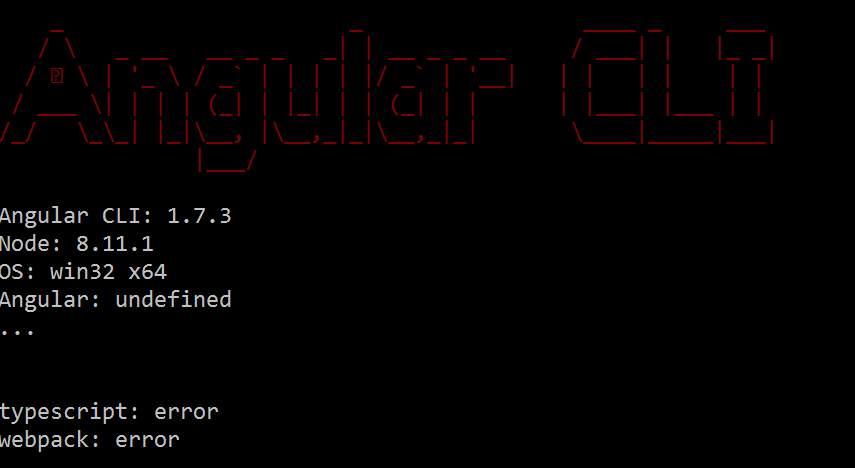
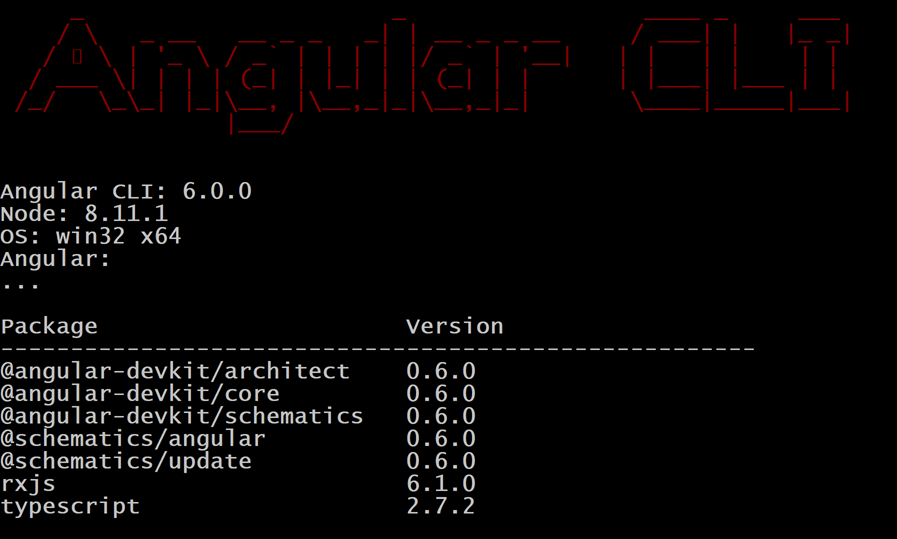
update vscode setup and url for sails api

diff --git a/index.html b/index.html
@@ -31,7 +31,7 @@
 				<div class="chapter">
 					<h2 id="overview">Overview</h2>
 <p>Welcome to the Up and Running with Angular Workshop.  Angular 2 was released in September 2016 and was a full re-write of the framework.  With the re-write a lot has changed.   In this workshop, you will learn how to build an Angular UI from the ground up.</p>
-<div class="alert alert-danger" role="alert">This workshop has been tested against Angular 5.2.9</div>
+<div class="alert alert-danger" role="alert">This workshop has been tested against Angular 6.0.0</div>
 
 <h3 id="goal">Goal</h3>
 <p>The goal of this tutorial is to walk you through creating an application with the common features that a web application would have (headers, footers, forms, calls to API services, authentication, etc).</p>
@@ -107,10 +107,71 @@
 
 <h3 id="visual-studio-code">Visual Studio Code</h3>
 <p>Visual Studio Code is Microsoft lightweight cross platform IDE.</p>
+<h4 class="exercise-start">
+    <b>VSCode Setup</b>
+</h4>
+
 <ol>
 <li>Download Visual Studio Code at <a href="https://code.visualstudio.com/">https://code.visualstudio.com/</a></li>
 <li>Once the download finishes, launch the installer except all of the defaults.</li>
+<li><p>Here are the extensions that I have installed:</p>
+<ul>
+<li><a href="https://marketplace.visualstudio.com/items?itemName=johnpapa.Angular2">Angular v6 Snippets</a></li>
+<li><a href="https://marketplace.visualstudio.com/items?itemName=infinity1207.angular2-switcher">Angular 2 Switcher</a></li>
+<li><a href="https://marketplace.visualstudio.com/items?itemName=Angular.ng-template">Angular Language Service</a></li>
+<li><a href="https://marketplace.visualstudio.com/items?itemName=esbenp.prettier-vscode">Prettier</a></li>
+<li><a href="https://marketplace.visualstudio.com/items?itemName=christian-kohler.path-intellisense">Path Intellisense</a></li>
+<li><a href="https://marketplace.visualstudio.com/items?itemName=CoenraadS.bracket-pair-colorizer">Bracket Pair Colorizer</a></li>
+<li><a href="https://marketplace.visualstudio.com/items?itemName=EditorConfig.EditorConfig">Editor Config</a></li>
+<li><a href="https://marketplace.visualstudio.com/items?itemName=eg2.tslint">TSLint</a></li>
+<li><a href="https://marketplace.visualstudio.com/items?itemName=humao.rest-client">REST Client</a></li>
+<li><a href="https://marketplace.visualstudio.com/items?itemName=Shan.code-settings-sync">Setting Sync</a></li>
+</ul>
+</li>
+<li><p>Here are my Visual Studio Code Settings</p>
+<pre><code class="lang-json"> {
+     &quot;editor.minimap.enabled&quot;: false,
+     &quot;editor.renderWhitespace&quot;: &quot;none&quot;,
+     &quot;editor.renderIndentGuides&quot;: true,
+     &quot;editor.tabCompletion&quot;: true,
+     &quot;editor.wordWrap&quot;: &quot;on&quot;,
+     &quot;editor.tabSize&quot;: 2,
+     &quot;editor.wrappingIndent&quot;: &quot;same&quot;,
+     &quot;explorer.confirmDragAndDrop&quot;: false,
+     &quot;explorer.openEditors.visible&quot;: 0,
+     &quot;files.autoSave&quot;: &quot;off&quot;,
+     &quot;files.exclude&quot;: {
+         &quot;**/.git&quot;: true,
+         &quot;**/.svn&quot;: true,
+         &quot;**/.hg&quot;: true,
+         &quot;**/CVS&quot;: true,
+         &quot;**/.DS_Store&quot;: true,
+         &quot;**/.npm&quot;: true,
+         &quot;**/*.js&quot;: {
+         &quot;when&quot;: &quot;$(basename).ts&quot;
+         },
+         &quot;**/*.js.map&quot;: {
+         &quot;when&quot;: &quot;$(basename)&quot;
+         }
+     },
+     &quot;files.hotExit&quot;: &quot;onExit&quot;,
+     &quot;files.trimTrailingWhitespace&quot;: true,
+     &quot;prettier.printWidth&quot;: 100,
+     &quot;prettier.singleQuote&quot;: true,
+     &quot;prettier.bracketSpacing&quot;: true,
+     &quot;prettier.trailingComma&quot;: &quot;es5&quot;,
+     &quot;search.exclude&quot;: {
+         &quot;**/node_modules&quot;: true,
+         &quot;**/bower_components&quot;: true,
+         &quot;**/jspm_packages&quot;: true
+     }
+ }
+</code></pre>
+</li>
 </ol>
+<div class="exercise-end"></div>
+
+
 <h3 id="node-js">Node.js</h3>
 <p>NodeJS is used to power the Angular CLI as well as install all of our dependencies. The Angular CLI requires Node version 8.</p>
 <ol>
@@ -134,7 +195,7 @@
     <b>Exercise</b>: Install Angular CLI
 </h4>
 
-<div class="alert alert-info" role="alert">This workshop has been tested against Angular CLI 1.7.3</div>
+<div class="alert alert-info" role="alert">This workshop has been tested against Angular CLI 6.0.0</div>
 
 <ol>
 <li><p>Open a command prompt or terminal and run the following command</p>
@@ -762,7 +823,7 @@
 
      const loginInfo = { &#39;email&#39;: email, &#39;password&#39;: password };
 
-     return this.http.put(&#39;https://dj-sails-todo.azurewebsites.net/user/login&#39;, loginInfo, requestOptions)
+     return this.http.put(&#39;https://sails-ws.herokuapp.com/user/login&#39;, loginInfo, requestOptions)
          .pipe(
              tap((res: Response) =&gt; {
                  if (res) {
@@ -986,7 +1047,7 @@
 <li><p>Add the following method to allow an account to be created</p>
 <pre><code class="lang-TypeScript">signup(email: string, password: string): Observable&lt;boolean | Response&gt; {
  const loginInfo = { &#39;email&#39;: email, &#39;password&#39;: password };
- return this.http.post(&quot;https://dj-sails-todo.azurewebsites.net/user/&quot;, loginInfo, requestOptions)
+ return this.http.post(&quot;https://sails-ws.herokuapp.com/user/&quot;, loginInfo, requestOptions)
      .pipe(
          tap((res: Response) =&gt; {
              if (res) {
@@ -1757,7 +1818,7 @@
 </li>
 <li><p>Next we need to create our save function that will call our API, pass in our TodoItem, and return back the results to the component.</p>
 <pre><code class="lang-TypeScript"> save(item: string): Observable&lt;Todo&gt; {
-     return this.http.post&lt;Todo&gt;(&#39;https://dj-sails-todo.azurewebsites.net/todo&#39;, new Todo(item), requestOptions);
+     return this.http.post&lt;Todo&gt;(&#39;https://sails-ws.herokuapp.com/todo&#39;, new Todo(item), requestOptions);
  }
 </code></pre>
 </li>
@@ -1857,7 +1918,7 @@
 </li>
 <li><p>Add the following function to make an http get call to our Todo API and return back an array of Todo items.</p>
 <pre><code class="lang-TypeScript"> getAll(): Observable&lt;Todo[]&gt; {
-     return this.http.get&lt;Todo[]&gt;(&#39;https://dj-sails-todo.azurewebsites.net/todo&#39;, requestOptions);
+     return this.http.get&lt;Todo[]&gt;(&#39;https://sails-ws.herokuapp.com/todo&#39;, requestOptions);
  }
 </code></pre>
 </li>
@@ -1962,7 +2023,7 @@
 </li>
 <li><p>We are going to create an update method that will take in a Todo item and make an http put call to our API to update the one record with the new completion state.</p>
 <pre><code class="lang-TypeScript"> updateTodo(todo: Todo): Observable&lt;Todo&gt; {
-     const url = `https://dj-sails-todo.azurewebsites.net/todo/${todo.id}`;
+     const url = `https://sails-ws.herokuapp.com/todo/${todo.id}`;
 
      return this.http.put&lt;Todo&gt;(url, todo, requestOptions);
  }
@@ -2069,7 +2130,7 @@
 </li>
 <li><p>We need to create a delete method that will call our API using http.delete</p>
 <pre><code class="lang-TypeScript"> deleteTodo(todo: Todo): Observable&lt;Todo&gt; {
-     const url = `https://dj-sails-todo.azurewebsites.net/todo/${todo.id}`;
+     const url = `https://sails-ws.herokuapp.com/todo/${todo.id}`;
      return this.http.delete&lt;Todo&gt;(url, requestOptions);
  }
 </code></pre>
@@ -2305,7 +2366,7 @@
 <li><p>Add an isAuthenticated function to the AuthService that checks the API to make sure that the user is still logged in</p>
 <pre><code class="lang-TypeScript">isAuthenticated(): Observable&lt;boolean | Response&gt; {
      return this.http
-         .get(&#39;https://dj-sails-todo.azurewebsites.net/user/identity&#39;, requestOptions)
+         .get(&#39;https://sails-ws.herokuapp.com/user/identity&#39;, requestOptions)
          .pipe(
              tap((res: Response) =&gt; {
                  if (res) {

diff --git a/src/chapters/chapter02-software-install.md b/src/chapters/chapter02-software-install.md
@@ -47,8 +47,69 @@ Once the "Folder Options" dialog is open:
 
 Visual Studio Code is Microsoft lightweight cross platform IDE.
 
+<h4 class="exercise-start">
+    <b>VSCode Setup</b>
+</h4>
+
 1. Download Visual Studio Code at [https://code.visualstudio.com/](https://code.visualstudio.com/)
 1. Once the download finishes, launch the installer except all of the defaults.
+1. Here are the extensions that I have installed:
+
+    * [Angular v6 Snippets](https://marketplace.visualstudio.com/items?itemName=johnpapa.Angular2)
+    * [Angular 2 Switcher](https://marketplace.visualstudio.com/items?itemName=infinity1207.angular2-switcher)
+    * [Angular Language Service](https://marketplace.visualstudio.com/items?itemName=Angular.ng-template)
+    * [Prettier](https://marketplace.visualstudio.com/items?itemName=esbenp.prettier-vscode)
+    * [Path Intellisense](https://marketplace.visualstudio.com/items?itemName=christian-kohler.path-intellisense)
+    * [Bracket Pair Colorizer](https://marketplace.visualstudio.com/items?itemName=CoenraadS.bracket-pair-colorizer)
+    * [Editor Config](https://marketplace.visualstudio.com/items?itemName=EditorConfig.EditorConfig)
+    * [TSLint](https://marketplace.visualstudio.com/items?itemName=eg2.tslint)
+    * [REST Client](https://marketplace.visualstudio.com/items?itemName=humao.rest-client)
+    * [Setting Sync](https://marketplace.visualstudio.com/items?itemName=Shan.code-settings-sync)
+
+1. Here are my Visual Studio Code Settings
+
+    ```json
+    {
+        "editor.minimap.enabled": false,
+        "editor.renderWhitespace": "none",
+        "editor.renderIndentGuides": true,
+        "editor.tabCompletion": true,
+        "editor.wordWrap": "on",
+        "editor.tabSize": 2,
+        "editor.wrappingIndent": "same",
+        "explorer.confirmDragAndDrop": false,
+        "explorer.openEditors.visible": 0,
+        "files.autoSave": "off",
+        "files.exclude": {
+            "**/.git": true,
+            "**/.svn": true,
+            "**/.hg": true,
+            "**/CVS": true,
+            "**/.DS_Store": true,
+            "**/.npm": true,
+            "**/*.js": {
+            "when": "$(basename).ts"
+            },
+            "**/*.js.map": {
+            "when": "$(basename)"
+            }
+        },
+        "files.hotExit": "onExit",
+        "files.trimTrailingWhitespace": true,
+        "prettier.printWidth": 100,
+        "prettier.singleQuote": true,
+        "prettier.bracketSpacing": true,
+        "prettier.trailingComma": "es5",
+        "search.exclude": {
+            "**/node_modules": true,
+            "**/bower_components": true,
+            "**/jspm_packages": true
+        }
+    }
+    ```
+
+<div class="exercise-end"></div>
+
 
 ### Node.js
 
@@ -80,7 +141,7 @@ While you do not have to use the Angular CLI, it is highly recommended, will inc
     <b>Exercise</b>: Install Angular CLI
 </h4>
 
-<div class="alert alert-info" role="alert">This workshop has been tested against Angular CLI 1.7.3</div>
+<div class="alert alert-info" role="alert">This workshop has been tested against Angular CLI 6.0.0</div>
 
 1. Open a command prompt or terminal and run the following command
 

diff --git a/src/chapters/chapter06-reactive-forms.md b/src/chapters/chapter06-reactive-forms.md
@@ -696,7 +696,7 @@ Now that we have the Todo service file created, we need to add our save method t
 
     ```TypeScript
     save(item: string): Observable<Todo> {
-        return this.http.post<Todo>('https://dj-sails-todo.azurewebsites.net/todo', new Todo(item), requestOptions);
+        return this.http.post<Todo>('https://sails-ws.herokuapp.com/todo', new Todo(item), requestOptions);
     }
     ```
 
@@ -822,7 +822,7 @@ First thing we need to do is add a function to the todo service to get the list 
 
     ```TypeScript
     getAll(): Observable<Todo[]> {
-        return this.http.get<Todo[]>('https://dj-sails-todo.azurewebsites.net/todo', requestOptions);
+        return this.http.get<Todo[]>('https://sails-ws.herokuapp.com/todo', requestOptions);
     }
     ```
 
@@ -941,7 +941,7 @@ Right now the todo list is just a read only view. However, we need to have the a
 
     ```TypeScript
     updateTodo(todo: Todo): Observable<Todo> {
-        const url = `https://dj-sails-todo.azurewebsites.net/todo/${todo.id}`;
+        const url = `https://sails-ws.herokuapp.com/todo/${todo.id}`;
 
         return this.http.put<Todo>(url, todo, requestOptions);
     }
@@ -1066,7 +1066,7 @@ In addition to being able to complete a todo item, we also need to be able to de
 
     ```TypeScript
     deleteTodo(todo: Todo): Observable<Todo> {
-        const url = `https://dj-sails-todo.azurewebsites.net/todo/${todo.id}`;
+        const url = `https://sails-ws.herokuapp.com/todo/${todo.id}`;
         return this.http.delete<Todo>(url, requestOptions);
     }
     ```

diff --git a/src/chapters/chapter05-template-forms.md b/src/chapters/chapter05-template-forms.md
@@ -345,7 +345,7 @@ The first thing we are going to do is create our login function
 
         const loginInfo = { 'email': email, 'password': password };
 
-        return this.http.put('https://dj-sails-todo.azurewebsites.net/user/login', loginInfo, requestOptions)
+        return this.http.put('https://sails-ws.herokuapp.com/user/login', loginInfo, requestOptions)
             .pipe(
                 tap((res: Response) => {
                     if (res) {
@@ -608,7 +608,7 @@ We are first going to create the signup function in the AuthService.
   ```TypeScript
   signup(email: string, password: string): Observable<boolean | Response> {
     const loginInfo = { 'email': email, 'password': password };
-    return this.http.post("https://dj-sails-todo.azurewebsites.net/user/", loginInfo, requestOptions)
+    return this.http.post("https://sails-ws.herokuapp.com/user/", loginInfo, requestOptions)
         .pipe(
             tap((res: Response) => {
                 if (res) {

diff --git a/src/chapters/chapter01-intro.md b/src/chapters/chapter01-intro.md
@@ -2,7 +2,7 @@
 
 Welcome to the Up and Running with Angular Workshop.  Angular 2 was released in September 2016 and was a full re-write of the framework.  With the re-write a lot has changed.   In this workshop, you will learn how to build an Angular UI from the ground up.
 
-<div class="alert alert-danger" role="alert">This workshop has been tested against Angular 5.2.9</div>
+<div class="alert alert-danger" role="alert">This workshop has been tested against Angular 6.0.0</div>
 
 ### Goal
 

diff --git a/src/chapters/chapter07-lockdown-routes.md b/src/chapters/chapter07-lockdown-routes.md
@@ -80,7 +80,7 @@ We need to make a call to the API to check if the user is logged into the API or
   ```TypeScript
   isAuthenticated(): Observable<boolean | Response> {
         return this.http
-            .get('https://dj-sails-todo.azurewebsites.net/user/identity', requestOptions)
+            .get('https://sails-ws.herokuapp.com/user/identity', requestOptions)
             .pipe(
                 tap((res: Response) => {
                     if (res) {
